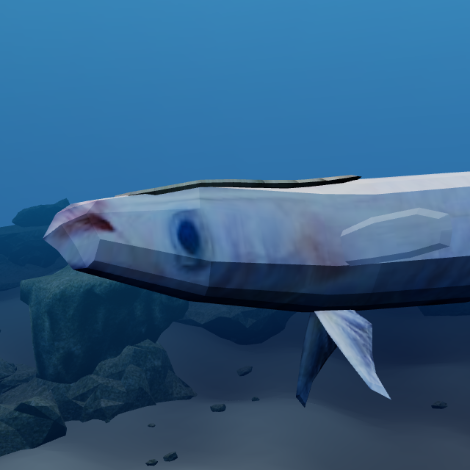
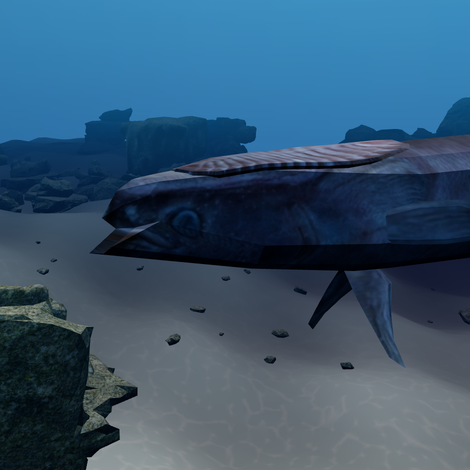
Recapture Spearfish Remora Atlas tile (v0.48.2-dev_1)
Rendered in the dev tank with the new texture, other fish hidden.

diff --git a/ROADMAP.md b/ROADMAP.md
@@ -184,7 +184,8 @@ Status: shipped in clean `v0.48.0` (2026-11-03), accepted from `v0.48.0-dev_4`,
 - [x] Retextured (`v0.48.2-dev_1`, Jeremy: Snow's photos are not to be used): Jeremy's new GLB
   uses Eric L. Chen's iNaturalist photo (CC BY-NC 4.0); `scripts/prepare-spearfish-remora-model.py`
   crops it and splits the disc back out of the body; rider fit re-run (source length 3.5506).
-- [ ] Atlas tile recaptured with the new texture (`public/atlas/remora-brachyptera-thumbnail.png`).
+- [x] Atlas tile recaptured with the new texture (`public/atlas/remora-brachyptera-thumbnail.png`,
+  rendered in the dev tank, other fish hidden).
 
 ### Leather Coral
 

diff --git a/CHANGELOG.md b/CHANGELOG.md
@@ -18,7 +18,8 @@ Status: in development, `v0.48.2-dev_1`, branch `claude/spearfish-texture`.
   (CC BY-NC 4.0), replacing John Snow's photos. `scripts/prepare-spearfish-remora-model.py`
   crops the photo to the two views the UVs use, renders the fish opaque, and splits the suction
   disc back out of the body so it stays rigid (2.08 MB to 207 KB). Mouth and tail edits lengthen
-  the source to 3.5506 units; scale, rider fit and stroke re-measured.
+  the source to 3.5506 units; scale, rider fit and stroke re-measured. Atlas tile recaptured
+  with the new texture.
 
 ### Sources
 
